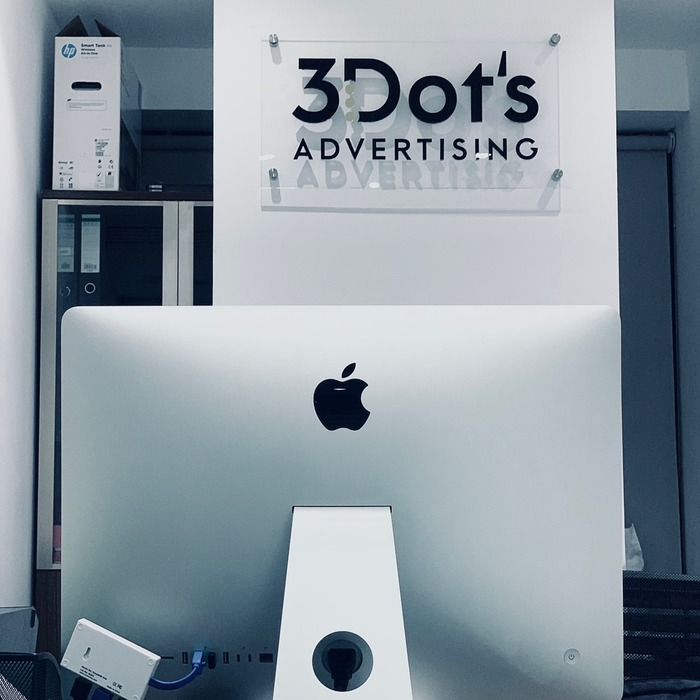
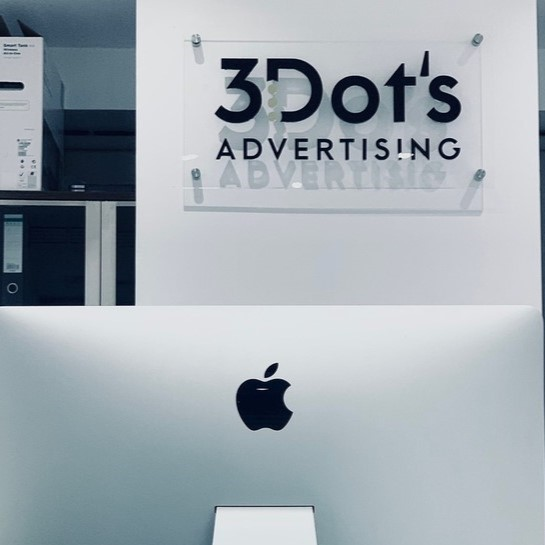
final10

diff --git a/index.html b/index.html
@@ -21,6 +21,7 @@
     <!-- Icon Font Stylesheet -->
     <link href="https://cdnjs.cloudflare.com/ajax/libs/font-awesome/5.10.0/css/all.min.css" rel="stylesheet">
     <link href="https://cdn.jsdelivr.net/npm/bootstrap-icons@1.4.1/font/bootstrap-icons.css" rel="stylesheet">
+    <link rel="stylesheet" href="https://maxcdn.bootstrapcdn.com/font-awesome/4.5.0/css/font-awesome.min.css">
 
     <!-- Libraries Stylesheet -->
     <link href="lib/animate/animate.min.css" rel="stylesheet">
@@ -66,7 +67,9 @@
     </nav>
     <!-- Navbar End -->
 
-
+    <a href="https://api.whatsapp.com/send?phone=+971 056 313 9733&text=Hola%21%20Quisiera%20m%C3%A1s%20informaci%C3%B3n%20sobre%20Varela%202." class="float" target="_blank">
+        <i class="fa fa-whatsapp my-float"></i>
+        </a>
     <!-- Carousel Start -->
     <div class="container-fluid p-0 mb-5">
         <div class="owl-carousel header-carousel position-relative">
@@ -134,7 +137,7 @@
                 <div class="col-lg-6 wow fadeInUp" data-wow-delay="0.1s" style="min-height: 400px;">
                     <div class="position-relative h-100 team-item">
                         <img class="img-fluid position-absolute w-100 h-100" src="img/3 Dots Profile 2023_1.jpg" alt=""
-                            style="object-fit: cover;">
+                            style="object-fit: scale-down;">
                     </div>
                 </div>
                 <div class="col-lg-6 wow fadeInUp " data-wow-delay="0.3s">
@@ -284,29 +287,23 @@
     <section>
         <div class="parallaxDiff wow fadeInUp" data-wow-delay="0.1s">
             <div class="row parallax-one">
-                <div class="col-lg-3 col-md-6 col-12">
+                <div class="col-lg-4 col-md-6 col-12">
                     <div class="content">
-                        <div class="value fadeInUp wow" data-wow-delay="0.1s" akhi="1000">0</div>
+                        <div class="value fadeInUp wow" data-wow-delay="0.1s" akhi="313">0</div>
                     </div>
                     <p class="parallaxpara fadeInUp wow" data-wow-delay="0.1s">Clients</p>
                 </div>
-                <div class="col-lg-3 col-md-6 col-12">
+                <div class="col-lg-4 col-md-6 col-12">
                     <div class="content">
                         <div class="value fadeInUp wow" data-wow-delay="0.1s" akhi="1000">0</div>
                     </div>
                     <p class="parallaxpara fadeInUp wow" data-wow-delay="0.1s">Projects</p>
                 </div>
-                <div class="col-lg-3 col-md-6 col-12">
+                <div class="col-lg-4 col-md-6 col-12">
                     <div class="content">
-                        <div class="value fadeInUp wow" data-wow-delay="0.1s" akhi="1000">0</div>
+                        <div class="value fadeInUp wow" data-wow-delay="0.1s" akhi="31">0</div>
                     </div>
                     <p class="parallaxpara fadeInUp wow" data-wow-delay="0.1s">Awards</p>
-                </div>
-                <div class="col-lg-3 col-md-6 col-12">
-                    <div class="content">
-                        <div class="value fadeInUp wow" data-wow-delay="0.1s" akhi="1000">0</div>
-                    </div>
-                    <p class="parallaxpara fadeInUp wow" data-wow-delay="0.1s">Hours</p>
                 </div>
             </div>
         </div>
@@ -364,7 +361,7 @@
             <div class="row g-5">
                 <div class="col-lg-6 wow fadeInUp" data-wow-delay="0.1s" style="min-height: 400px;">
                     <div class="position-relative h-100 team-item">
-                        <img class="img-fluid position-absolute w-100 h-100" src="img/shop.jpeg" alt="">
+                        <img class="img-fluid position-absolute w-100 h-100" src="img/shop.jpeg" alt="" style="object-fit: scale-down;">
                             
                     </div>
                 </div>

diff --git a/Service.html b/Service.html
@@ -21,6 +21,7 @@
     <!-- Icon Font Stylesheet -->
     <link href="https://cdnjs.cloudflare.com/ajax/libs/font-awesome/5.10.0/css/all.min.css" rel="stylesheet">
     <link href="https://cdn.jsdelivr.net/npm/bootstrap-icons@1.4.1/font/bootstrap-icons.css" rel="stylesheet">
+    <link rel="stylesheet" href="https://maxcdn.bootstrapcdn.com/font-awesome/4.5.0/css/font-awesome.min.css">
 
     <!-- Libraries Stylesheet -->
     <link href="lib/animate/animate.min.css" rel="stylesheet">
@@ -66,7 +67,9 @@
         </div>
     </nav>
     <!-- Navbar End -->
-
+    <a href="https://api.whatsapp.com/send?phone=+971 056 313 9733&text=Hola%21%20Quisiera%20m%C3%A1s%20informaci%C3%B3n%20sobre%20Varela%202." class="float" target="_blank">
+        <i class="fa fa-whatsapp my-float"></i>
+        </a>
 
     <!-- Header Start -->
     <div class="container-fluid bg-primary py-5 mb-5 page-header2">

diff --git a/about.html b/about.html
@@ -19,6 +19,7 @@
     <!-- Icon Font Stylesheet -->
     <link href="https://cdnjs.cloudflare.com/ajax/libs/font-awesome/5.10.0/css/all.min.css" rel="stylesheet">
     <link href="https://cdn.jsdelivr.net/npm/bootstrap-icons@1.4.1/font/bootstrap-icons.css" rel="stylesheet">
+    <link rel="stylesheet" href="https://maxcdn.bootstrapcdn.com/font-awesome/4.5.0/css/font-awesome.min.css">
 
     <!-- Libraries Stylesheet -->
     <link href="lib/animate/animate.min.css" rel="stylesheet">
@@ -63,6 +64,9 @@
     </nav>
     <!-- Navbar End -->
 
+    <a href="https://api.whatsapp.com/send?phone=+971 056 313 9733&text=Hola%21%20Quisiera%20m%C3%A1s%20informaci%C3%B3n%20sobre%20Varela%202." class="float" target="_blank">
+        <i class="fa fa-whatsapp my-float"></i>
+        </a>
 
     <!-- Header Start -->
     <div class="container-fluid bg-primary py-5 mb-5 page-header">

diff --git a/contact.html b/contact.html
@@ -21,6 +21,7 @@
     <!-- Icon Font Stylesheet -->
     <link href="https://cdnjs.cloudflare.com/ajax/libs/font-awesome/5.10.0/css/all.min.css" rel="stylesheet">
     <link href="https://cdn.jsdelivr.net/npm/bootstrap-icons@1.4.1/font/bootstrap-icons.css" rel="stylesheet">
+    <link rel="stylesheet" href="https://maxcdn.bootstrapcdn.com/font-awesome/4.5.0/css/font-awesome.min.css">
 
     <!-- Libraries Stylesheet -->
     <link href="lib/animate/animate.min.css" rel="stylesheet">
@@ -84,7 +85,9 @@
         </div>
     </div>
     <!-- Header End -->
-
+    <a href="https://api.whatsapp.com/send?phone=+971 056 313 9733&text=Hola%21%20Quisiera%20m%C3%A1s%20informaci%C3%B3n%20sobre%20Varela%202." class="float" target="_blank">
+        <i class="fa fa-whatsapp my-float"></i>
+        </a>
 
     <!-- Contact Start -->
     <div class="container-xxl py-5">

diff --git a/css/style.css b/css/style.css
@@ -530,4 +530,21 @@
     font-family: thinPoppins;
     src: url(/Fonts/Poppins-Regular.ttf);
 }
+.float{
+	position:fixed;
+	width:60px;
+	height:60px;
+	bottom:100px;
+	right:40px;
+	background-color:#25d366;
+	color:#FFF;
+	border-radius:50px;
+	text-align:center;
+  font-size:30px;
+	box-shadow: 2px 2px 3px #999;
+  z-index:100;
+}
 
+.my-float{
+	margin-top:16px;
+}
